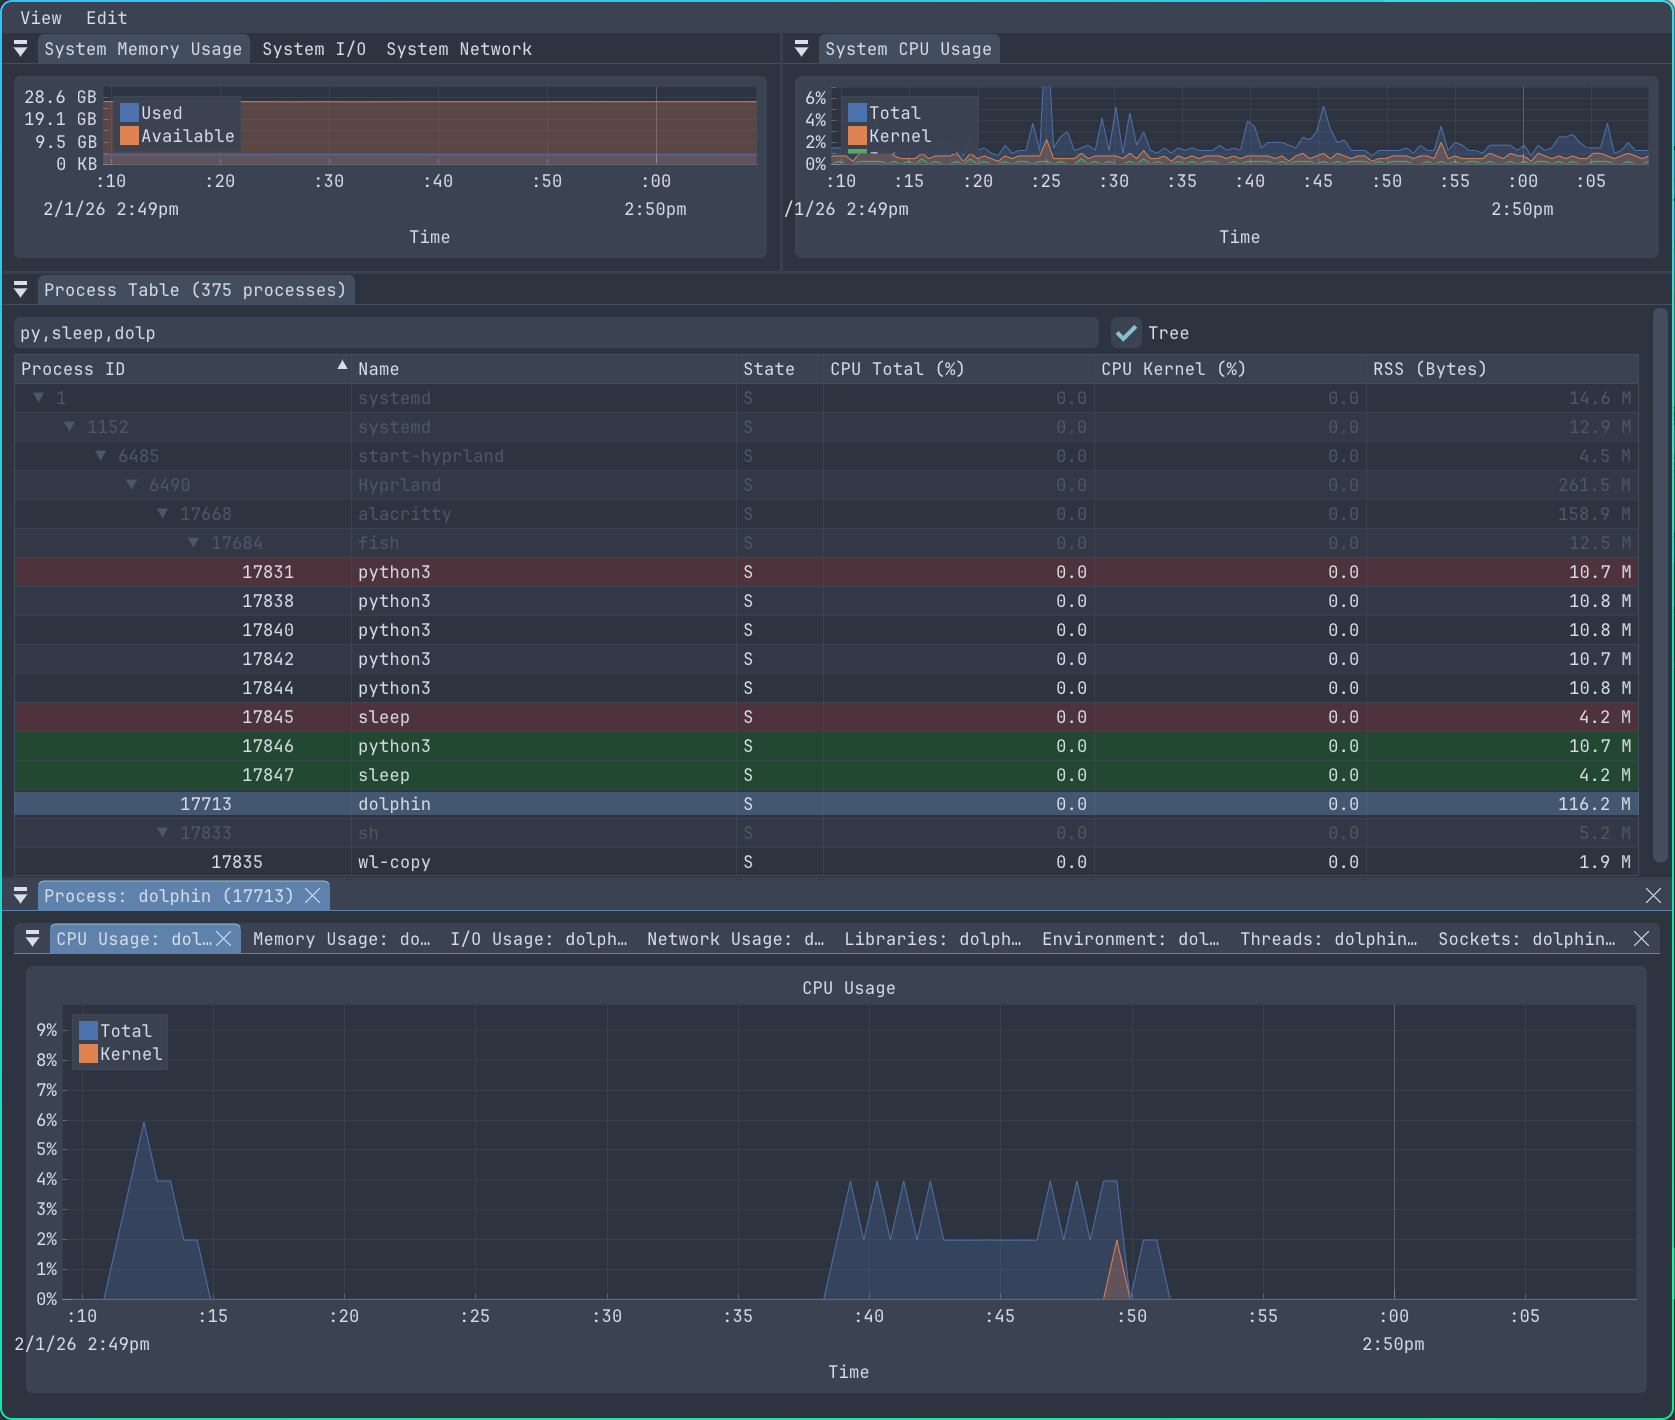
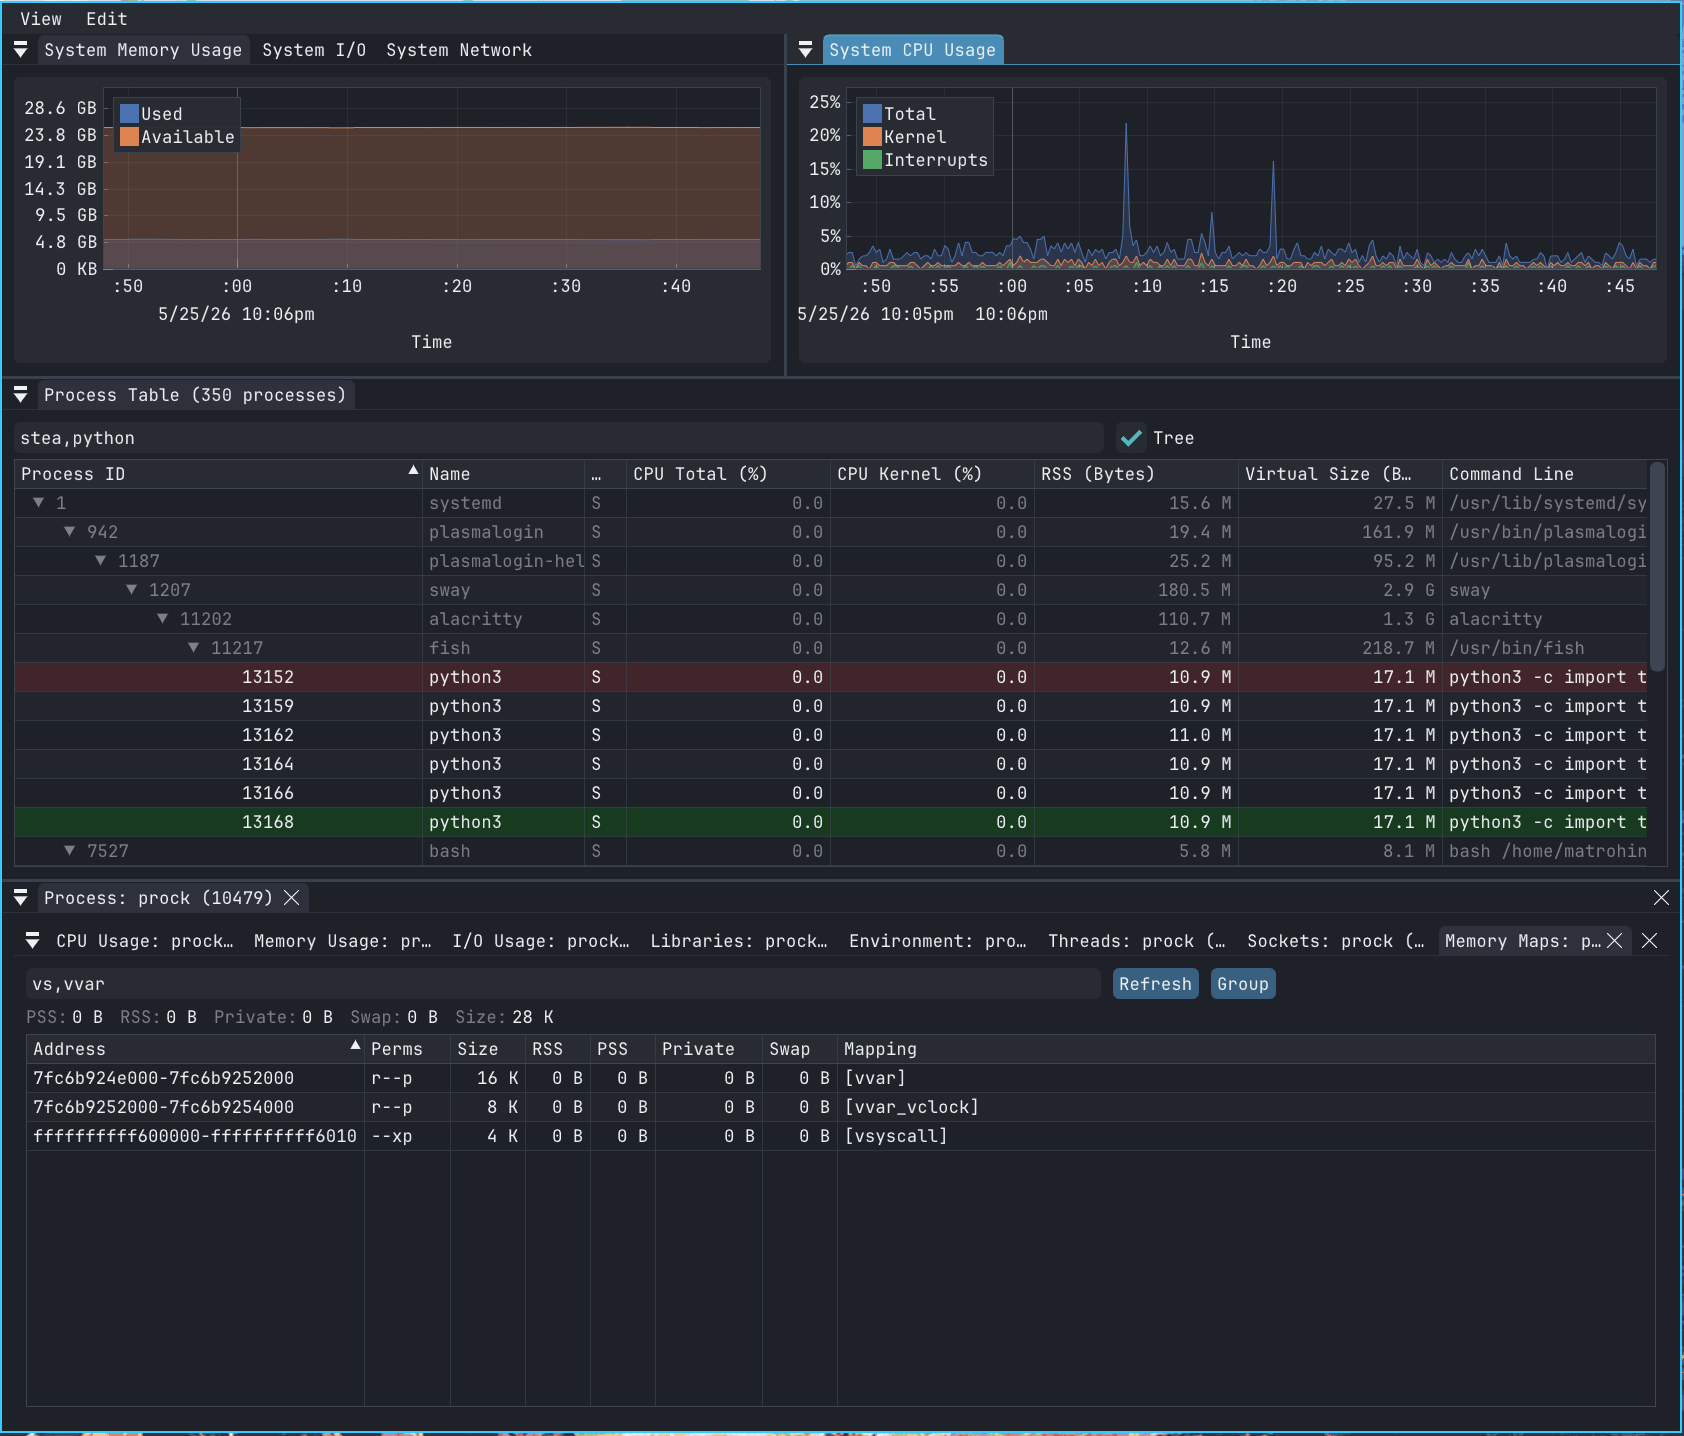
Update README features and screenshot

diff --git a/README.md b/README.md
@@ -7,14 +7,16 @@ The tool is still in development. I need it myself to improve my Linux desktop e
 ## Features
 
 ### Process Monitoring
-- Flat list or tree view showing parent-child relationships
-- Filter processes by name (Ctrl+F)
+- Tree view (default) or flat list showing parent-child relationships
+- Filter by name (Ctrl+F) or type to jump to a process
 - Sortable and reorderable columns
 - Copy process info or entire table to clipboard
-- Kill (SIGTERM) or force kill (SIGKILL) processes
+- Kill (SIGTERM), force kill (SIGKILL), or kill entire process tree
+- Suspend / resume processes
+- Set CPU affinity and nice priority
 
 ### System Charts
-- CPU usage with optional per-core and stacked views
+- CPU usage (total, kernel, interrupts) with optional per-core and stacked views
 - Memory usage (used vs available)
 - Disk I/O throughput (read/write MB/s)
 - Network throughput (send/receive MB/s)
@@ -23,8 +25,10 @@ The tool is still in development. I need it myself to improve my Linux desktop e
 - Right-click any process to open:
   - Dedicated charts (CPU, memory, I/O, network)
   - Loaded libraries with mapped/file sizes
+  - Memory maps with address, permissions, RSS/PSS/swap, and grouping by mapping
+  - Sockets
+  - Threads
   - Environment variables
-  - Process threads
 - Double-click to open all windows at once
 
 ## Building
@@ -40,8 +44,6 @@ sudo apt install cmake gcc libwayland-dev libxkbcommon-dev xorg-dev libgles2-mes
 ```bash
 sudo pacman -Sy cmake gcc
 ```
-
-> **Note for GNOME users:** If the window title bar is not displayed on Wayland, this may be due to a [known mutter issue](https://gitlab.gnome.org/GNOME/mutter/-/issues/217). Use the `release-x11` preset instead to disable Wayland support.
 
 ### Install & Update
 
